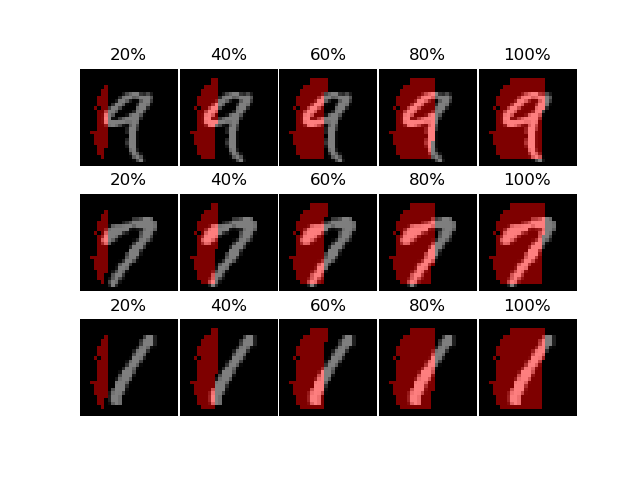
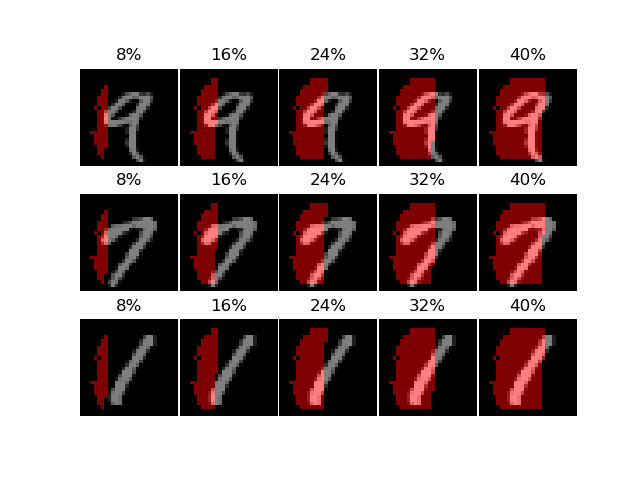
Feature size relabelling

diff --git a/compare.py b/compare.py
@@ -74,7 +74,7 @@ def define_parser():
     parser = argparse.ArgumentParser(description="Run NMP")
     parser.add_argument("--reduced_inference", default="True", help="If comparision subset is reduced according to paper")
     parser.add_argument("--J", default="1000", help="Comparision subset")
-    parser.add_argument("--data", default="AIRFOIL", help="Input dataset available as the paper shows")
+    parser.add_argument("--data", default="BOSTON", help="Input dataset available as the paper shows")
     parser.add_argument("--algo", default="CORR", help="The algorithm used for feature selection")
     parser.add_argument("--tree_size", default="20", help="The number of trees used in BART or RF")
     parser.add_argument("--MC_Num", default="10", help="The number of MC simulations done")
@@ -528,7 +528,7 @@ def run_feature_selector_algo(args, S, X_train, X_test, T_train, T_test, i, mode
         log_params = False
 
     elif args.algo=="CORR":
-        S_hat = np.argsort(np.dot((X_train.T),T_train).T)[::-1].flatten()
+        S_hat = np.argsort(abs(np.dot((X_train.T),T_train).T))[::-1].flatten()
         model_fpsr[0,i] = FPSR(S,S_hat[0:len(S)])
         model_fnsr[0,i] = FNSR(S,S_hat[0:len(S)])
 

diff --git a/MyFunctions.py b/MyFunctions.py
@@ -112,6 +112,7 @@ def show_image(samples, sorted_ind, save_name):
     result_path = "./results/"
     image = {}
     percentage = [0.2,0.4,0.6,0.8,1] # [0.2,0.4,0.6,0.8,1] # [0.1,0.2,0.3,0.4,0.5,0.6,0.7,0.8,0.9,1]
+    percentage_label = [0.08,0.16,0.24,0.32,.40]
     fig = plt.figure()
     gs1 = gridspec.GridSpec(len(samples), len(percentage))
     gs1.update(wspace=0.025, hspace=0.05) # set the spacing between axes.
@@ -119,6 +120,7 @@ def show_image(samples, sorted_ind, save_name):
     i = 0
     feature_len = len(sorted_ind)
     for x in samples:
+        idx = 0
         for p in percentage:
             y = np.zeros(x.shape)
             temp = int(round(p*feature_len))
@@ -148,9 +150,10 @@ def show_image(samples, sorted_ind, save_name):
             params = {'interpolation': 'nearest'}
             imgplot = plt.imshow(image)
             plt.imshow(f_image, 'viridis', interpolation='nearest', alpha=0.5)
-            ax.set_title(str(int(p * 100))+"%")
+            ax.set_title(str(int(percentage_label[idx] * 100))+"%")
             plt.axis('off')
             i = i + 1
+            idx = idx + 1
 
     plt.savefig(result_path +"Sample_image_MNIST_"+save_name+".png")
     plt.close()

diff --git a/test.py b/test.py
@@ -16,7 +16,7 @@ def choose_patched_features(size, rows, cols, patch_rows = 4, patch_cols = 4):
     for i in range(size):
         for j in range(patch_rows):
             for k in range(patch_cols):
-                S_hat.append((patch_rows*rows[i] + j)*28 + patch_cols*cols[i] + k%4) 
+                S_hat.append((patch_rows*rows[i] + j)*28 + patch_cols*cols[i] + k%patch_cols) 
     return S_hat
 
 # Features from deeplift
@@ -92,10 +92,12 @@ show_image(x, S_hat[0:300], "test_deeplift_300")
 
 show_image(x, S_hat_bart_mnist[0:300], "test_bart_300")
 
-with open('./parameters/MNIST_sorted.pkl', 'rb') as f:
+with open('./parameters/MNIST_sorted_ind.pkl', 'rb') as f:
     indices = pickle.load(f)
 
-#show_image_old(x, indices['sorted_ind'], "test_nmp")
+S_hat = indices['sorted_ind']
+show_image(x, S_hat[0:300], "test_nmp_300_1x1")
+
 rows = [1, 3, 3, 2, 4, 2, 3, 4, 3, 5, 5, 3, 3, 5, 2, 4, 4, 4, 2, 6, 2, 4, 0, 1, 2, 3, 5, 1, 0, 0, 5, 0, 6, 2, 0, 6, 1, 5, 4, 5, 1, 0, 1, 6, 1, 6, 0, 6, 6]
 cols = [4, 3, 1, 4, 2, 2, 4, 3, 5, 2, 4, 6, 2, 1, 3, 5, 4, 6, 1, 2, 6, 1, 1, 3, 5, 0, 3, 1, 6, 4, 6, 5, 4, 0, 2, 0, 5, 5, 0, 0, 0, 0, 2, 6, 6, 5, 3, 1, 3]
 
